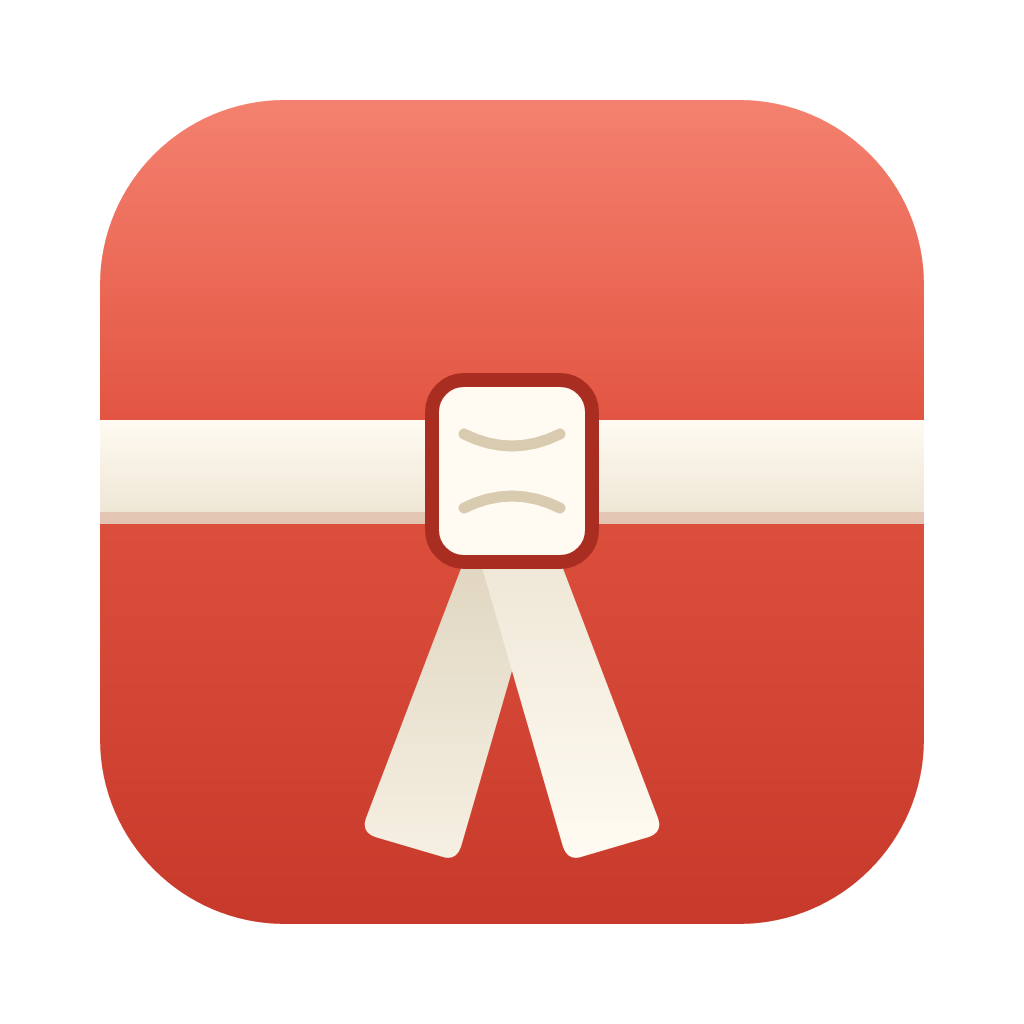
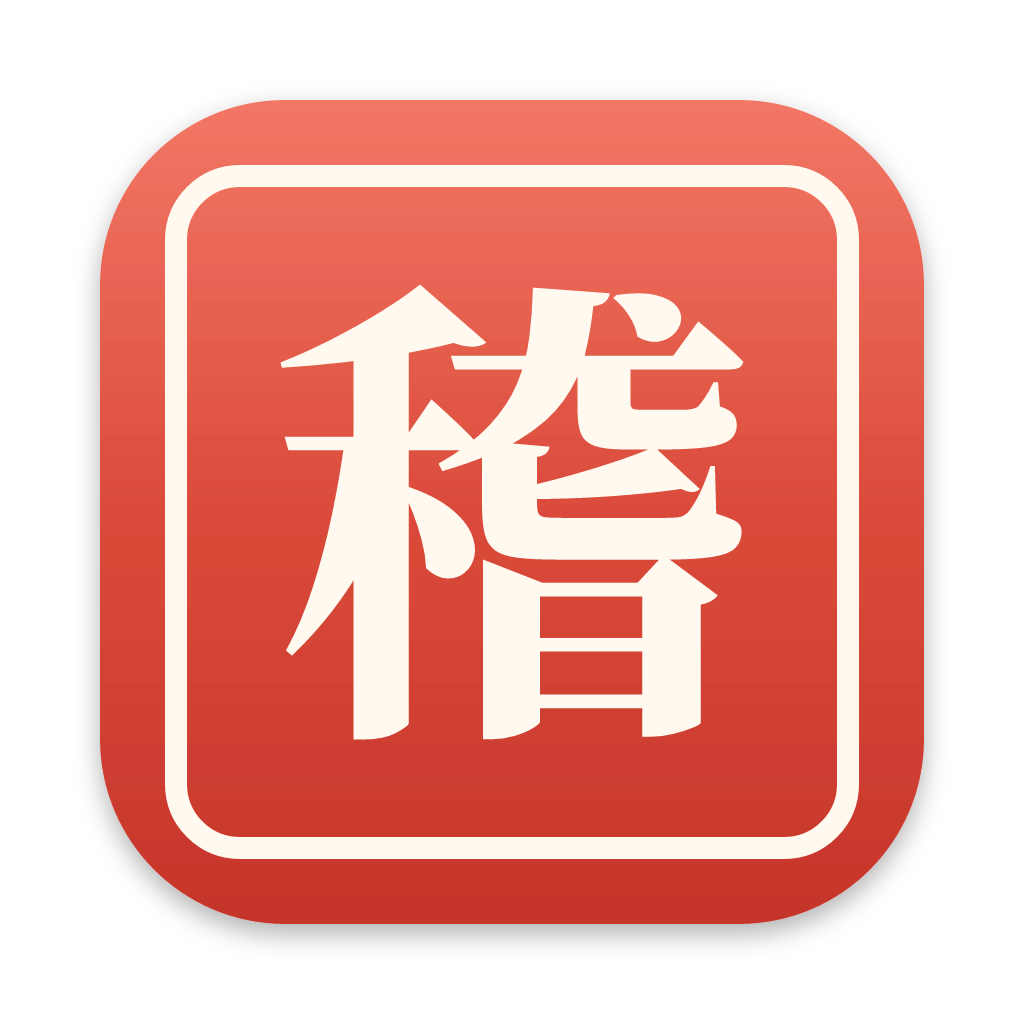
feat(brand): hanko 稽 identity and a cleaner card
The icon becomes the kanji 稽 (keiko) on a vermilion hanko seal, on
Apple's grid with a shadow; the top bar and banner use the artwork
itself. Dojo icons drop Apple's margin on cards. Cards read description
then one line of facts; status badges use a solid band; BY KEIKO is a
quiet outline. PodDojo's icon follows the grid (PodDojo 0.3.2).
Version 0.3.1.

Changed region(s): [[0.0938, 0.1562, 0.9062, 0.9375]]

diff --git a/apps/keiko/src/app.rs b/apps/keiko/src/app.rs
@@ -18,6 +18,8 @@ use crate::widgets::{self, Icon, Kind};
 /// Re-check GitHub when the last check is older than this.
 const STALE: u64 = 3600;
 const MORE_W: f32 = 40.0;
+/// The artwork inside an icon drawn on Apple's grid (824 of 1024 px, centred).
+const GRID: egui::Rect = egui::Rect { min: egui::pos2(0.0977, 0.0977), max: egui::pos2(0.9023, 0.9023) };
 
 pub struct Entry {
     pub app: App,
@@ -482,7 +484,7 @@ impl KeikoApp {
                     ui.ctx().send_viewport_cmd(egui::ViewportCommand::Maximized(!zoomed));
                 }
                 ui.horizontal_centered(|ui| {
-                    widgets::mark(ui, &t, 30.0);
+                    self.logo(ui, 30.0);
                     ui.add_space(4.0);
                     let mut job = LayoutJob::default();
                     job.append(
@@ -729,7 +731,7 @@ impl KeikoApp {
                     egui::Layout::left_to_right(egui::Align::Center),
                     |ui| {
                         ui.spacing_mut().item_spacing.x = 12.0;
-                        widgets::mark(ui, &t, 24.0);
+                        self.logo(ui, 24.0);
                         ui.label(widgets::spaced(&format!("Keiko {version} is available"), 12.5, t.text, true));
                         let note = match &error {
                             Some(err) => RichText::new(err).size(14.0).color(t.bad),
@@ -772,7 +774,8 @@ impl KeikoApp {
         }
         match self.textures.get(&id) {
             Some(tex) => {
-                ui.add(egui::Image::new((tex.id(), vec2(size, size))));
+                // Dojo icons follow Apple's grid (artwork 100..924 of 1024): show the artwork only.
+                ui.add(egui::Image::new((tex.id(), vec2(size, size))).uv(GRID));
             }
             None => {
                 let [r, g, b] = self.entries[i].app.color;
@@ -877,9 +880,25 @@ impl KeikoApp {
 
     fn by_keiko(&self, ui: &mut Ui) {
         let t = self.t;
-        egui::Frame::new().fill(t.seal.gamma_multiply(0.16)).inner_margin(Margin::symmetric(8, 4)).show(ui, |ui| {
-            ui.label(widgets::spaced("by Keiko", 10.0, t.seal, false));
-        });
+        egui::Frame::new().stroke(Stroke::new(1.0, t.border_strong)).inner_margin(Margin::symmetric(7, 3)).show(
+            ui,
+            |ui| {
+                ui.label(widgets::spaced("by Keiko", 10.0, t.muted, false));
+            },
+        );
+    }
+
+    /// Keiko's icon without the macOS margin and shadow, for the top bar and the banner.
+    fn logo(&self, ui: &mut Ui, size: f32) {
+        match self.textures.get("keiko") {
+            Some(tex) => {
+                // The artwork sits on Apple's grid: 100..924 of 1024.
+                ui.add(egui::Image::new((tex.id(), vec2(size, size))).uv(GRID));
+            }
+            None => {
+                ui.allocate_exact_size(vec2(size, size), Sense::hover());
+            }
+        }
     }
 
     fn card_body(&mut self, ui: &mut Ui, i: usize, actions: &mut Vec<Action>) {
@@ -906,19 +925,20 @@ impl KeikoApp {
         widgets::belt(ui, &t, e.state(), e.busy_label().as_deref());
         ui.add_space(18.0);
 
-        ui.spacing_mut().item_spacing.y = 5.0;
-        let size = e.latest.as_ref().and_then(|l| l.asset.as_ref()).map(|a| format::size(a.size));
-        if let Some(s) = size {
-            ui.label(RichText::new(format!("Download size: {s}")).size(14.0).color(t.text.gamma_multiply(0.85)));
-        }
+        ui.spacing_mut().item_spacing.y = 0.0;
         ui.add(
-            egui::Label::new(RichText::new(&e.app.description).size(14.0).color(t.text.gamma_multiply(0.85))).wrap(),
+            egui::Label::new(RichText::new(&e.app.description).size(14.5).color(t.text.gamma_multiply(0.88))).wrap(),
         );
+        // One line of facts, like a spec sheet: size and release date.
+        let size = e.latest.as_ref().and_then(|l| l.asset.as_ref()).map(|a| format::size(a.size));
         let released = e.latest.as_ref().and_then(|l| l.published_at.as_deref()).and_then(format::date);
-        if let Some(d) = released {
-            ui.label(RichText::new(format!("Released: {d}")).size(14.0).color(t.muted));
+        let facts: Vec<String> = [size, released.map(|d| format!("Released {d}"))].into_iter().flatten().collect();
+        if !facts.is_empty() {
+            ui.add_space(12.0);
+            ui.label(RichText::new(facts.join("  ·  ")).family(theme::mono()).size(12.5).color(t.muted));
         }
         if let Some(err) = &e.error {
+            ui.add_space(8.0);
             ui.add(egui::Label::new(RichText::new(err).size(13.0).color(t.bad)).wrap());
         }
         ui.add_space(18.0);

diff --git a/apps/keiko/src/widgets.rs b/apps/keiko/src/widgets.rs
@@ -199,8 +199,9 @@ pub fn belt(ui: &mut Ui, t: &Tokens, state: State, busy: Option<&str>) -> Respon
     let (rect, resp) = ui.allocate_exact_size(size, Sense::hover());
     let p = ui.painter();
     p.rect_stroke(rect, CornerRadius::same(2), Stroke::new(1.0, color.gamma_multiply(0.55)), StrokeKind::Inside);
-    let sw = Rect::from_min_size(pos2(rect.left() + 9.0, rect.center().y - 6.0), vec2(22.0, 12.0));
-    knot(p, sw, swatch, t.border_strong);
+    // The belt: a short solid band in the belt's colour.
+    let sw = Rect::from_min_size(pos2(rect.left() + 10.0, rect.center().y - 3.5), vec2(20.0, 7.0));
+    p.rect(sw, CornerRadius::same(2), swatch, Stroke::new(1.0, t.border_strong), StrokeKind::Inside);
     p.galley(pos2(sw.right() + 8.0, rect.center().y - galley.size().y / 2.0), galley, color);
     resp.on_hover_text(hint)
 }
@@ -219,25 +220,6 @@ pub fn initial_tile(ui: &mut Ui, color: Color32, name: &str, size: f32) {
     );
 }
 
-/// A tiny knotted belt in `fill` (the status badge's swatch).
-fn knot(p: &egui::Painter, r: Rect, fill: Color32, edge: Color32) {
-    let s = Stroke::new(1.0, edge);
-    let band = Rect::from_min_size(pos2(r.left(), r.top() + 2.0), vec2(r.width(), 4.0));
-    p.rect(band, 0.5, fill, s, StrokeKind::Inside);
-    let cx = r.center().x;
-    let tail = |dx: f32| {
-        vec![
-            pos2(cx - 1.5, r.top() + 5.0),
-            pos2(cx + 1.5, r.top() + 5.0),
-            pos2(cx + dx + 1.5, r.bottom()),
-            pos2(cx + dx - 1.5, r.bottom()),
-        ]
-    };
-    p.add(egui::Shape::convex_polygon(tail(-4.0), fill, s));
-    p.add(egui::Shape::convex_polygon(tail(4.0), fill, s));
-    p.rect(Rect::from_center_size(pos2(cx, r.top() + 4.0), vec2(5.0, 7.0)), 1.0, fill, s, StrokeKind::Inside);
-}
-
 /// A section heading: a spaced label and a hairline to the right edge.
 pub fn section_title(ui: &mut Ui, t: &Tokens, text: &str) {
     ui.horizontal(|ui| {
@@ -246,36 +228,4 @@ pub fn section_title(ui: &mut Ui, t: &Tokens, text: &str) {
         let y = ui.min_rect().center().y;
         ui.painter().line_segment([pos2(r.left() + 10.0, y), pos2(r.right(), y)], Stroke::new(1.0, t.border));
     });
-}
-
-/// Keiko's mark for small sizes: the vermilion seal with a knotted belt.
-pub fn mark(ui: &mut Ui, t: &Tokens, size: f32) {
-    let (r, _) = ui.allocate_exact_size(Vec2::splat(size), Sense::hover());
-    let p = ui.painter();
-    p.rect_filled(r, size * 0.22, t.seal);
-    let paper = Color32::from_rgb(252, 248, 239);
-    let u = size / 30.0;
-    let y = r.top() + 12.5 * u;
-    p.rect_filled(
-        Rect::from_x_y_ranges(r.left() + 4.0 * u..=r.right() - 4.0 * u, y - 2.5 * u..=y + 2.5 * u),
-        0.5,
-        paper,
-    );
-    let cx = r.center().x;
-    let tail = |dx: f32| {
-        egui::Shape::convex_polygon(
-            vec![
-                pos2(cx - 2.0 * u, y + 2.0 * u),
-                pos2(cx + 2.0 * u, y + 2.0 * u),
-                pos2(cx + dx + 2.2 * u, r.bottom() - 5.0 * u),
-                pos2(cx + dx - 2.2 * u, r.bottom() - 5.0 * u),
-            ],
-            paper,
-            Stroke::NONE,
-        )
-    };
-    p.add(tail(-5.0 * u));
-    p.add(tail(5.0 * u));
-    let knot = Rect::from_center_size(pos2(cx, y), vec2(7.0 * u, 9.0 * u));
-    p.rect(knot, 1.5 * u, paper, Stroke::new(1.2 * u, t.seal), StrokeKind::Outside);
 }

diff --git a/ATTRIBUTION.md b/ATTRIBUTION.md
@@ -2,11 +2,12 @@
 
 | Asset | Author | License |
 |---|---|---|
-| `assets/app-icon/keiko.svg` and its PNG renders | David Bujosa | MIT OR Apache-2.0 |
+| `assets/app-icon/keiko.svg` and its PNG renders | David Bujosa | MIT OR Apache-2.0; the 稽 outline is from Noto Serif JP (Bold instance), SIL OFL 1.1 |
 | `assets/apps/poddojo.png` (PodDojo's icon, from bujosa/poddojo) | David Bujosa | MIT OR Apache-2.0 |
 | `assets/fonts/SpaceGrotesk-*.ttf` | The Space Grotesk Project Authors | SIL OFL 1.1 (`assets/fonts/OFL-SpaceGrotesk.txt`) |
 | `assets/fonts/JetBrainsMono-*.ttf` | The JetBrains Mono Project Authors | SIL OFL 1.1 (`assets/fonts/OFL-JetBrainsMono.txt`) |
 | `assets/fonts/Inter-Regular.ttf` | The Inter Project Authors | SIL OFL 1.1 (`assets/fonts/OFL-Inter.txt`) |
+| 稽 glyph outline in the app icon | Noto Project Authors (Noto Serif JP) | SIL OFL 1.1 (https://openfontlicense.org) |
 
 The fonts are the Latin subsets distributed by Fontsource. egui's bundled fonts (Ubuntu, Hack,
 Noto Emoji) are used as fallbacks under their own licenses.

diff --git a/CHANGELOG.md b/CHANGELOG.md
@@ -1,5 +1,16 @@
 # Changelog
 
+## 0.3.1
+
+A professional identity.
+
+- **New icon**: the kanji 稽 (*keiko*, practice) on a vermilion hanko seal, on Apple's icon grid with
+  a soft shadow. It reads at every size, from the menu bar to the Dock; the top bar and the update
+  banner use the same artwork.
+- Dojo icons are shown without Apple's margin, so they fill their place on the card.
+- Cards read in order: the description, then one line of facts (size and release date). Status
+  badges carry a solid belt-coloured band; "BY KEIKO" is a quiet outline.
+
 ## 0.3.0
 
 Keiko does one job well: install the dojos, keep them up to date, open them.

diff --git a/README.md b/README.md
@@ -1,5 +1,5 @@
 <p align="center">
-  <img src="assets/app-icon/keiko-256.png" width="128" height="128" alt="Keiko icon: a white training belt knotted on a vermilion seal">
+  <img src="assets/app-icon/keiko-256.png" width="128" height="128" alt="Keiko icon: the kanji 稽 (keiko, practice) on a vermilion hanko seal">
 </p>
 
 <h1 align="center">Keiko</h1>
